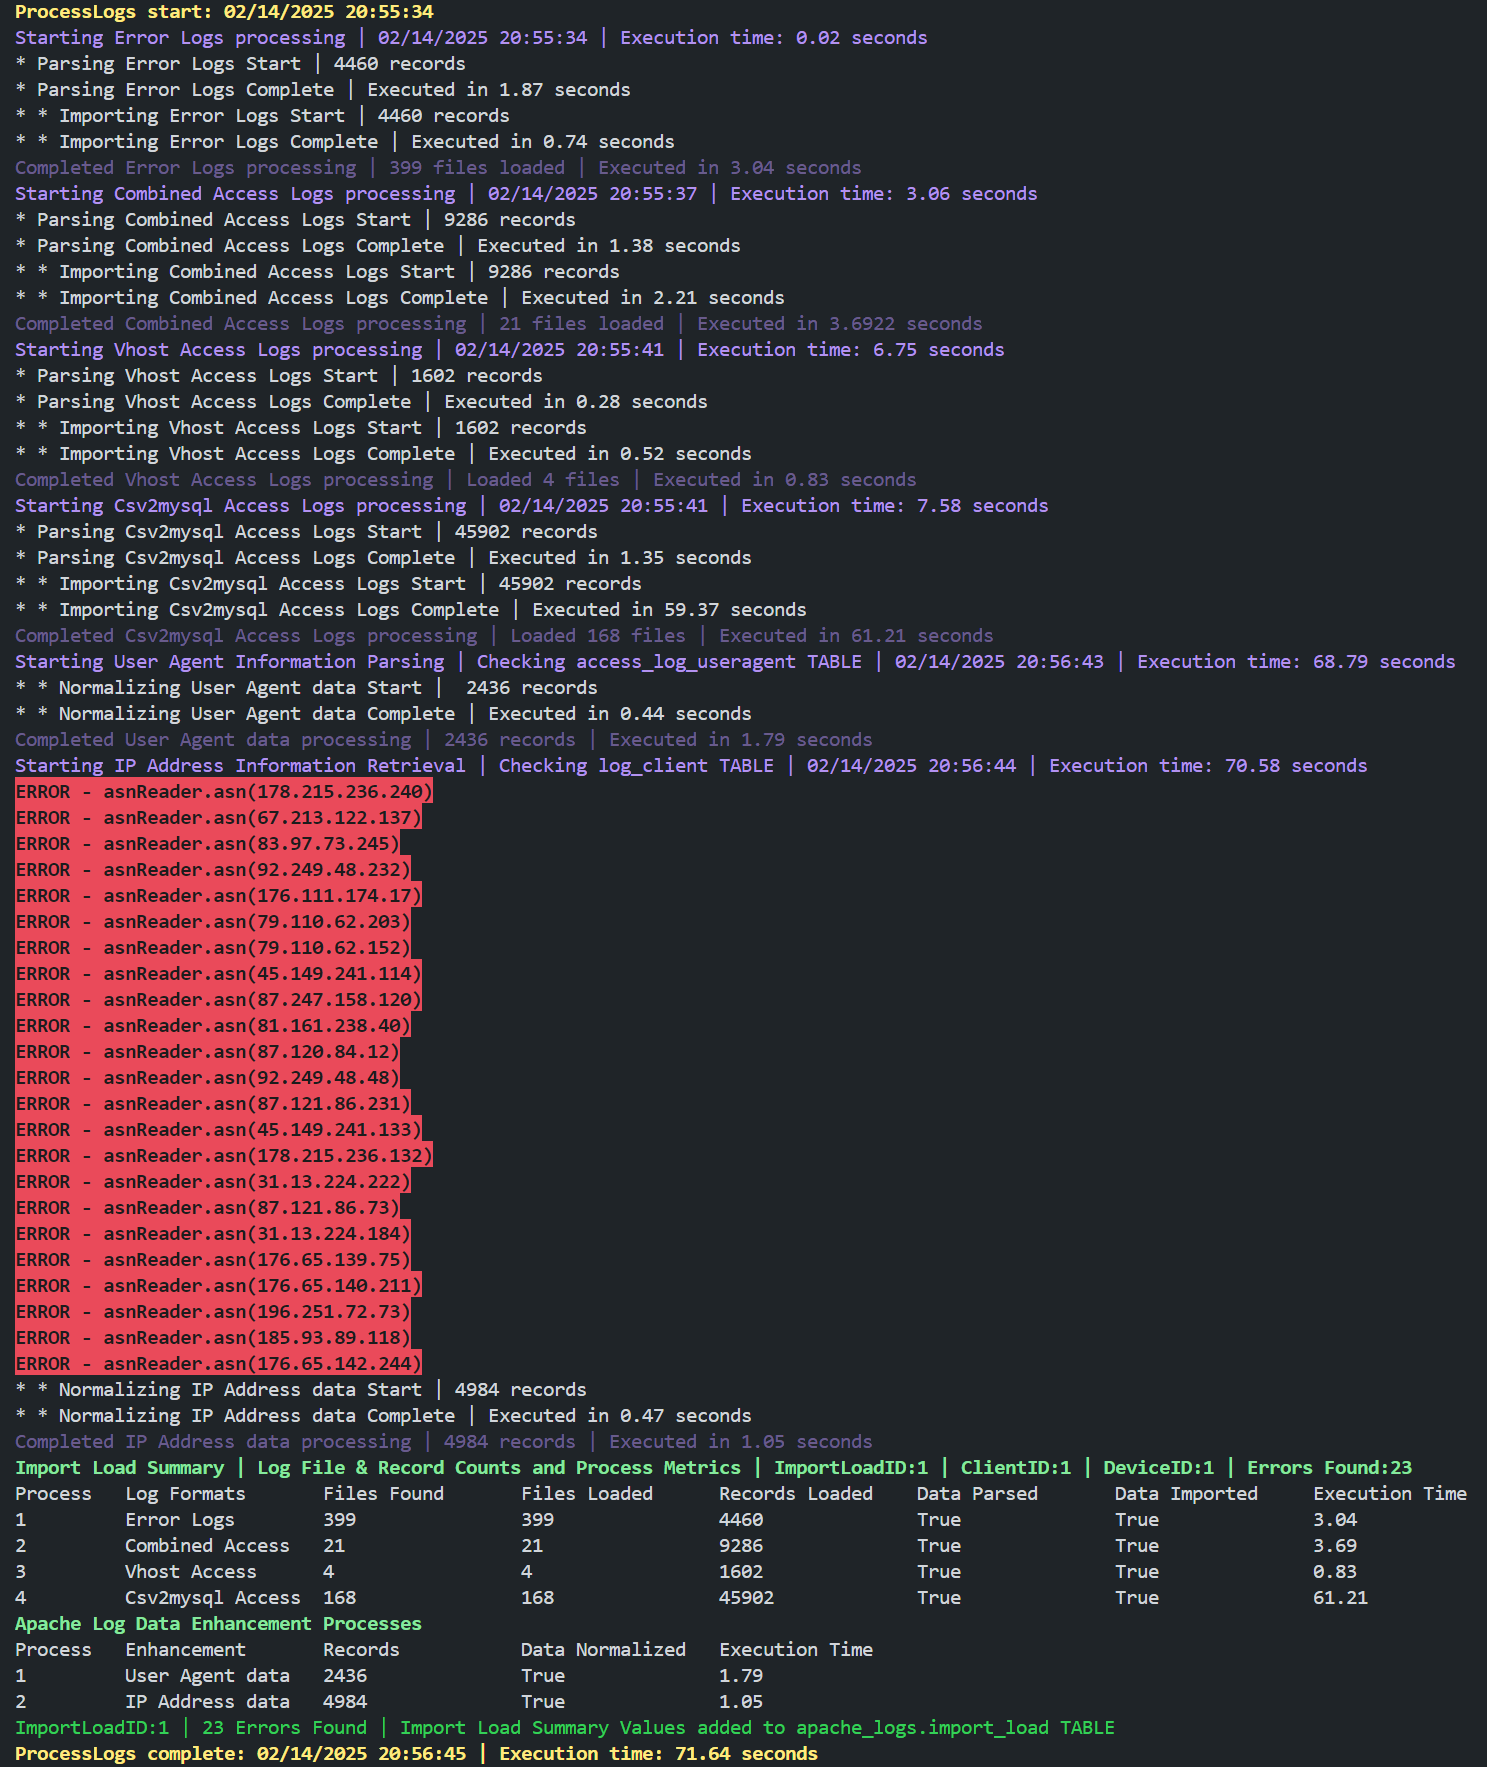
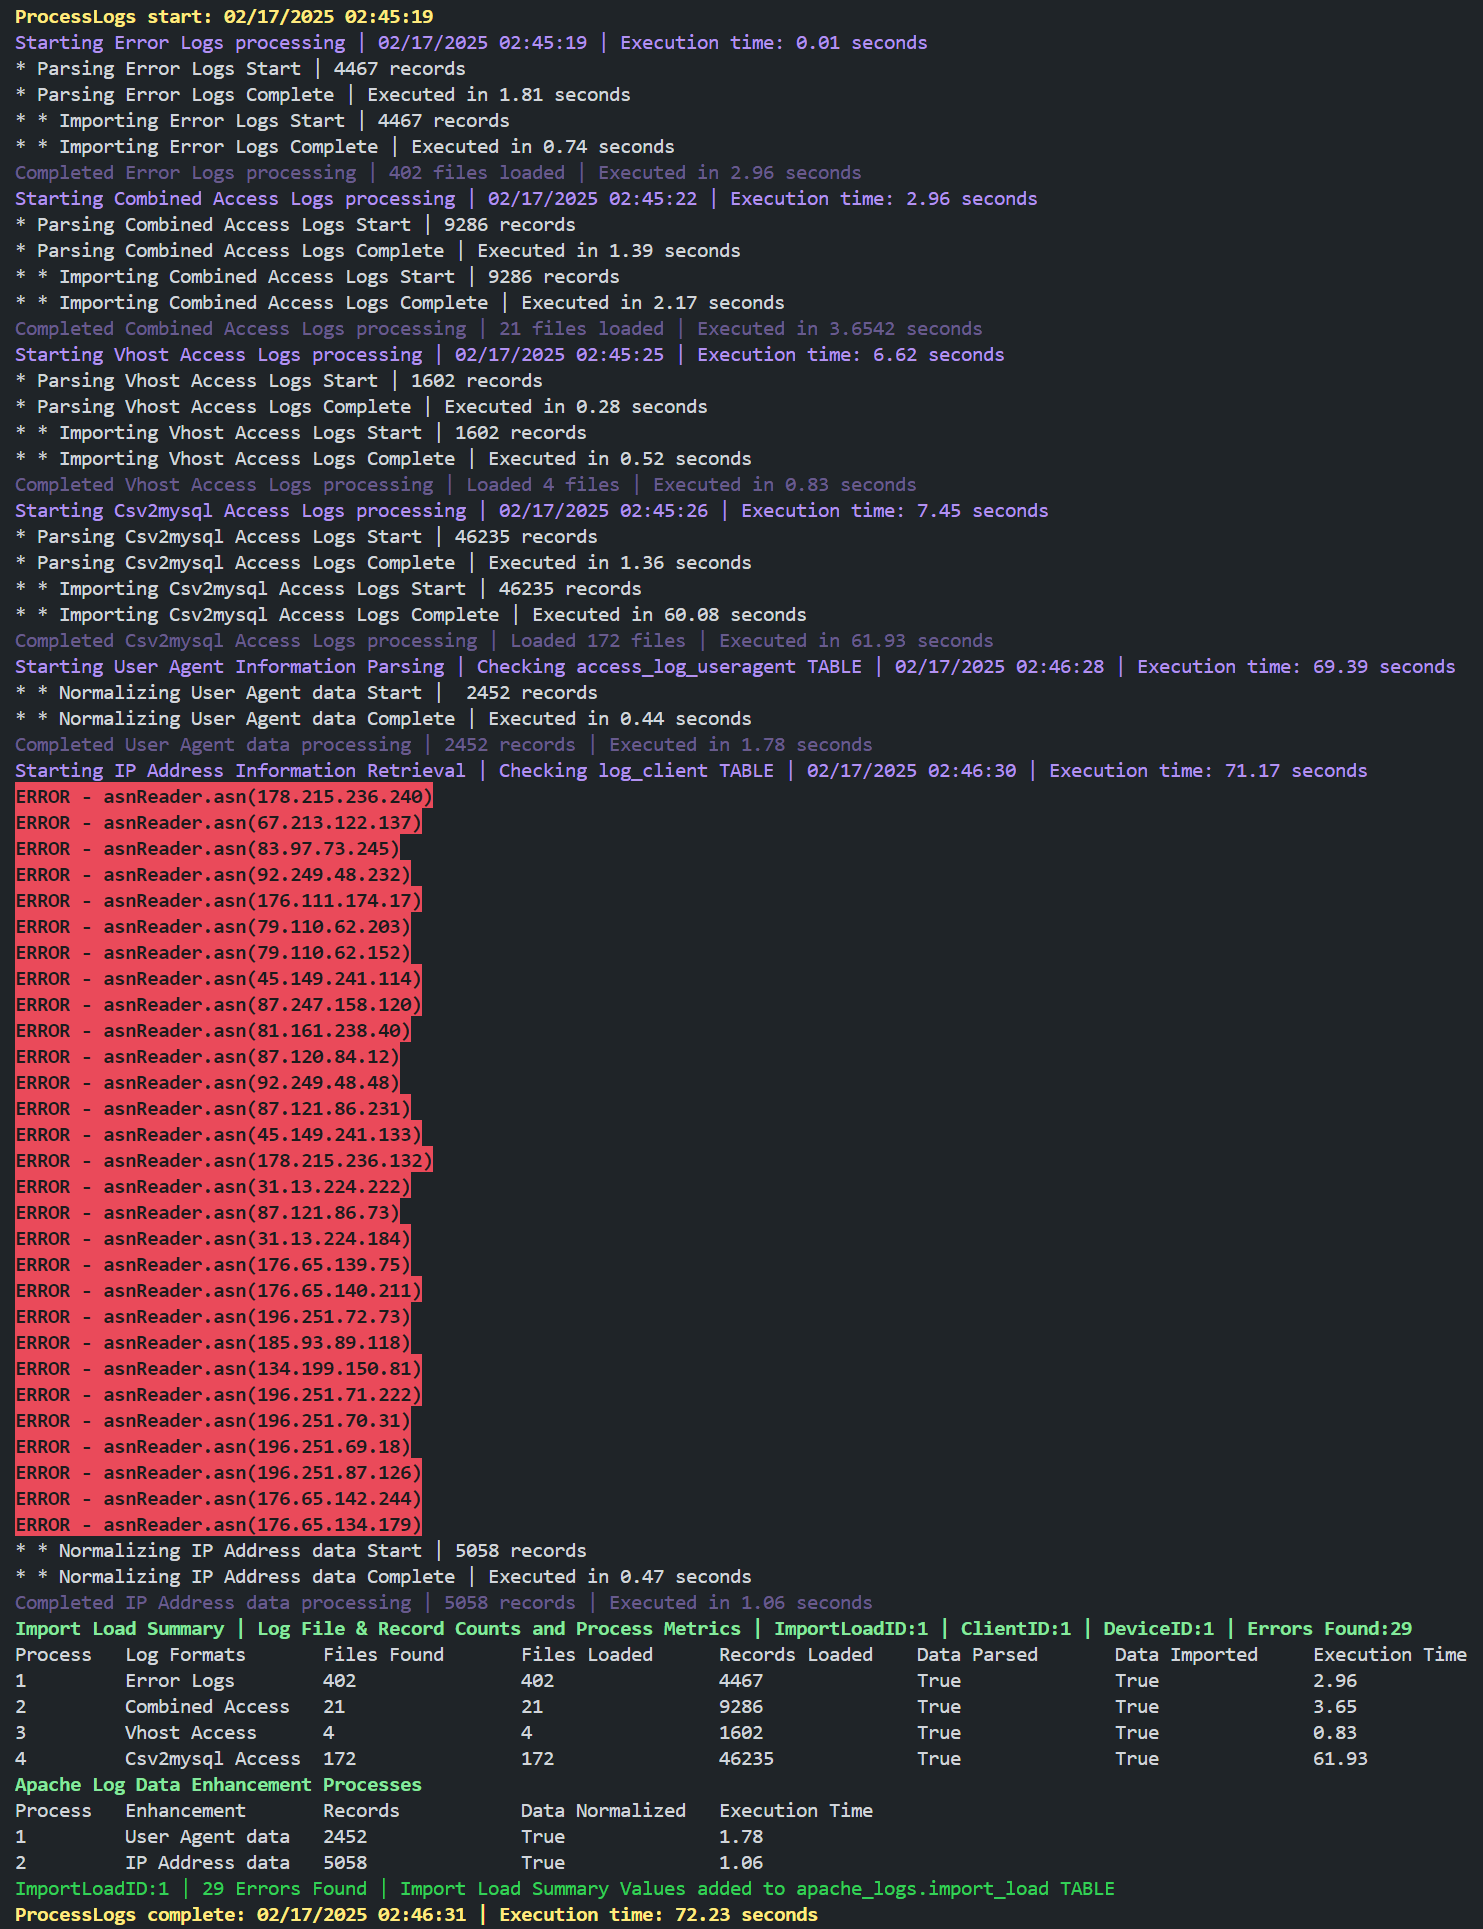
Update benchmarks with Maria 11.7 and MySQL 9.2

Changed region(s): [[0.0, 0.0, 0.9926, 0.996], [0.7444, 0.8093, 0.9926, 0.9338]]

diff --git a/index.html b/index.html
@@ -53,14 +53,14 @@
     </div>
     <div id='Maria-Benchmark' class="text-center">
       <a name='Maria-Benchmark'></a>
-      <h3>MariaDB Execution Time & Process Messages for same Dataset</h3>
+      <h3>MariaDB 11.7 Execution Time & Process Messages for same Dataset</h3>
       <img src="./assets/benchmark-mariadb-10.png" class="img-fluid" alt="...">
     </div>
     <div id='MySQL-Benchmark' class="text-center">
       <a name='MySQL-Benchmark'></a>
-      <h3>MySQL Execution Time & Process Messages for same Dataset</h3>
+      <h3>MySQL 9.2 Execution Time & Process Messages for same Dataset</h3>
       <img src="./assets/benchmark-mysql-10.png" class="img-fluid" alt="...">
-      <p>Benchmarks executed on Windows 11 | 13th Gen Intel(R) Core(TM) i7-13700T 1.40 GHz | 96GB DDR5-5600 SODIMM | WD_BLACK 1TB SN850X NVMe SSD</p>
+      <p>Benchmarks executed on Windows 11 | 13th Gen Intel(R) Core(TM) i7-13700T 1.40 GHz | 96GB DDR5-5600 SODIMM | WD_BLACK 1TB SN850X NVMe SSD - Up to 7,300 MB/s</p>
     </div>
   <script src="https://cdn.jsdelivr.net/npm/bootstrap@5.3.3/dist/js/bootstrap.bundle.min.js" integrity="sha384-YvpcrYf0tY3lHB60NNkmXc5s9fDVZLESaAA55NDzOxhy9GkcIdslK1eN7N6jIeHz" crossorigin="anonymous"></script>
   </body>
